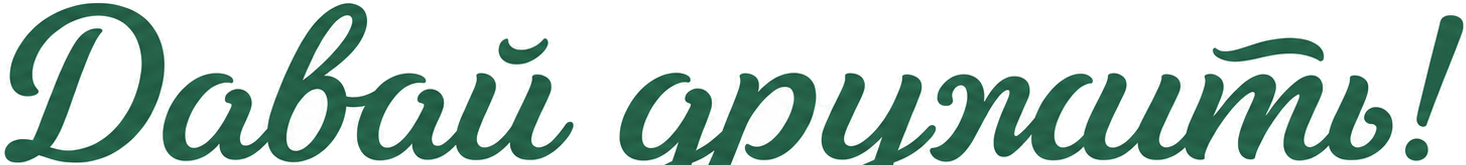
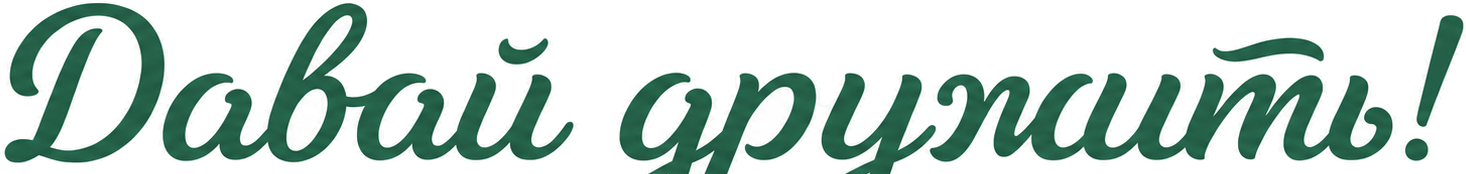
fullbleed: recrop slogan with safer cut — keep all letter tails
Per-column scan of the source PNG showed letter descenders extend
down to y≈299. Previous cut at y=295 chopped 4–5px off the bottoms
of Д/р/у/ж/й/ь/!.

Re-cropped at y=304 (deep enough to fit all descenders, still above
the ECO leaf tips at y=305+). New slogan: 1466×174 (was 1466×165).
Cache-buster ?v=1 → ?v=2.

diff --git a/fullbleed/index.html b/fullbleed/index.html
@@ -493,7 +493,7 @@
         <a href="#catalog" class="btn btn-primary">Смотреть каталог</a>
       </div>
       <div class="hero-badges hero-badges-center">
-        <img src="../assets/hero-slogan.png?v=1" alt="Давай дружить!" />
+        <img src="../assets/hero-slogan.png?v=2" alt="Давай дружить!" />
       </div>
     </div>
   </div>